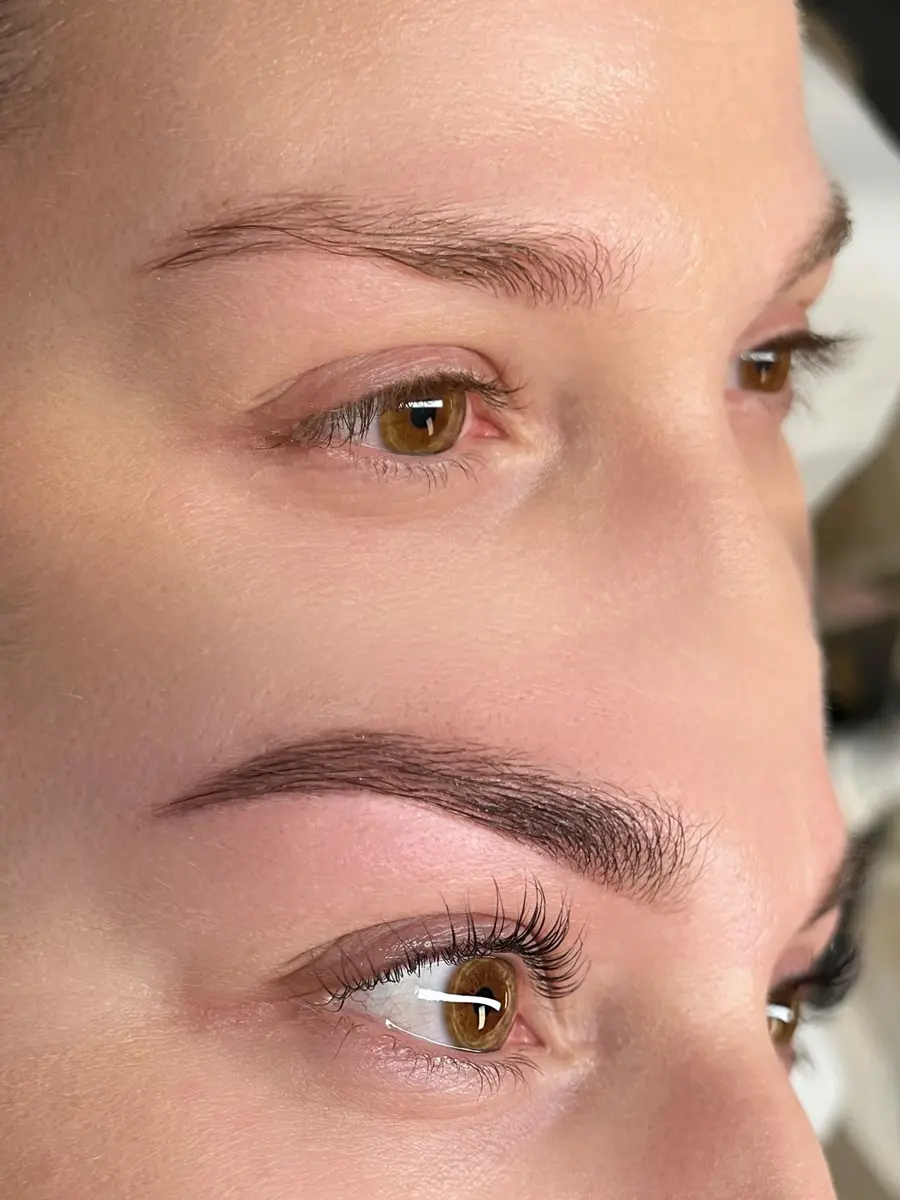
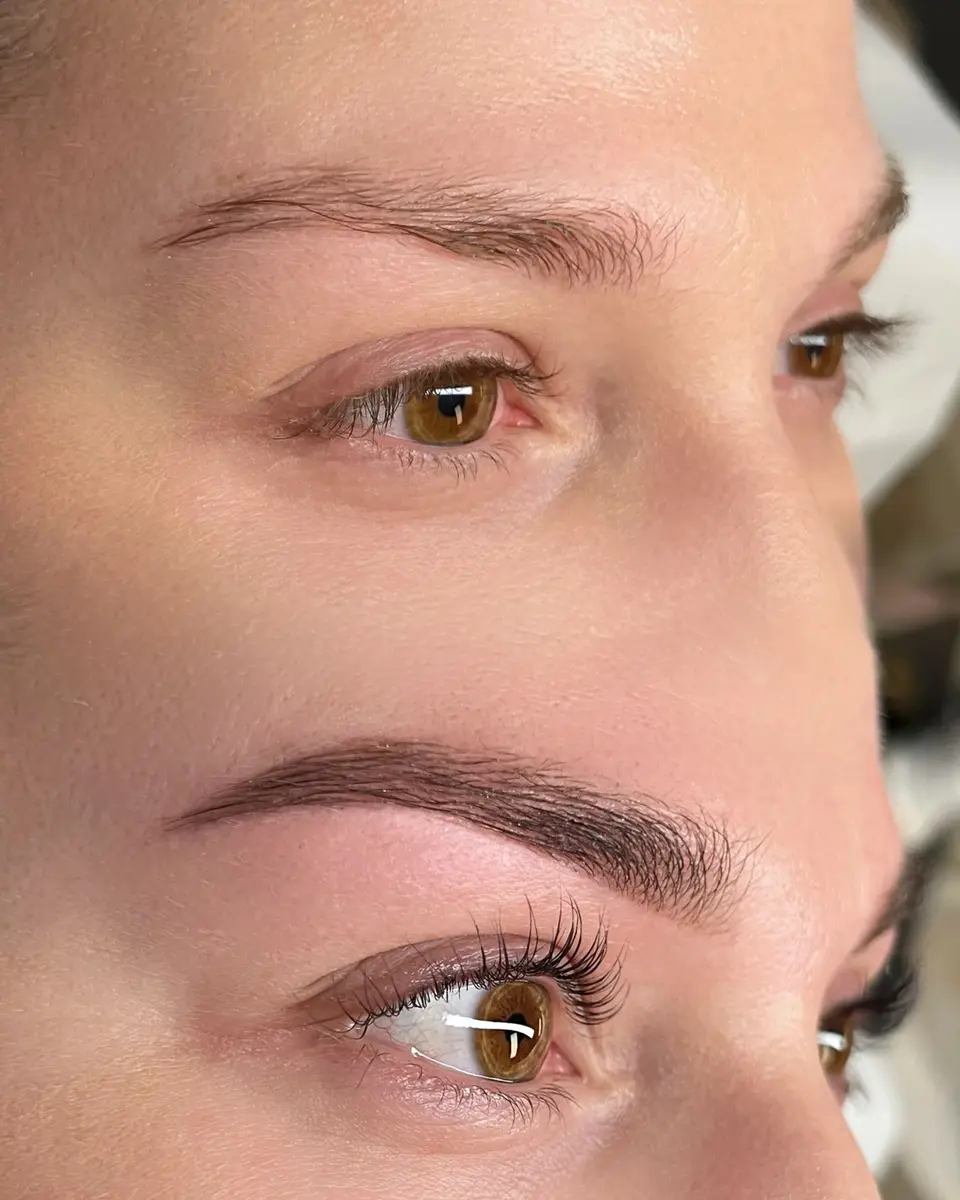
Lash Lift: Galeriebilder im 4:5-Format, weniger beschnitten
Claude-Session: https://claude.ai/code/session_01Psd1c15DkTXSssEPuBD7wk

diff --git a/perfect-line/lash-lift.html b/perfect-line/lash-lift.html
@@ -214,11 +214,11 @@
         <span class="flex-1 flex items-center">Nachher</span>
       </div>
       <div class="flex-1 min-w-0 flex gap-[3px] overflow-x-auto overflow-y-hidden overscroll-x-contain snap-x snap-mandatory md:grid md:grid-cols-5 md:overflow-visible">
-      <figure class="reveal snap-start shrink-0 w-[78%] md:w-auto relative aspect-[3/4] overflow-hidden"><img src="../assets/images/lash-lift-vorher-nachher-5-sarstedt.webp" alt="Lash Lift: Wimpern vorher und nachher" class="w-full h-full object-cover" loading="lazy" width="900" height="1200"></figure>
-      <figure class="reveal snap-start shrink-0 w-[78%] md:w-auto relative aspect-[3/4] overflow-hidden"><img src="../assets/images/lash-lift-vorher-nachher-1-sarstedt.webp" alt="Lash Lift: Wimpern vorher und nachher" class="w-full h-full object-cover" loading="lazy" width="900" height="1200"></figure>
-      <figure class="reveal snap-start shrink-0 w-[78%] md:w-auto relative aspect-[3/4] overflow-hidden"><img src="../assets/images/lash-lift-vorher-nachher-2-sarstedt.webp" alt="Lash Lift: Wimpern vorher und nachher" class="w-full h-full object-cover" loading="lazy" width="900" height="1200"></figure>
-      <figure class="reveal snap-start shrink-0 w-[78%] md:w-auto relative aspect-[3/4] overflow-hidden"><img src="../assets/images/lash-lift-vorher-nachher-3-sarstedt.webp" alt="Lash Lift: Wimpern vorher und nachher" class="w-full h-full object-cover" loading="lazy" width="900" height="1200"></figure>
-      <figure class="reveal snap-start shrink-0 w-[78%] md:w-auto relative aspect-[3/4] overflow-hidden"><img src="../assets/images/lash-lift-vorher-nachher-4-sarstedt.webp" alt="Lash Lift: Wimpern vorher und nachher" class="w-full h-full object-cover" loading="lazy" width="900" height="1200"></figure>
+      <figure class="reveal snap-start shrink-0 w-[78%] md:w-auto relative aspect-[4/5] overflow-hidden"><img src="../assets/images/lash-lift-vorher-nachher-5-sarstedt.webp" alt="Lash Lift: Wimpern vorher und nachher" class="w-full h-full object-cover" loading="lazy" width="960" height="1200"></figure>
+      <figure class="reveal snap-start shrink-0 w-[78%] md:w-auto relative aspect-[4/5] overflow-hidden"><img src="../assets/images/lash-lift-vorher-nachher-1-sarstedt.webp" alt="Lash Lift: Wimpern vorher und nachher" class="w-full h-full object-cover" loading="lazy" width="960" height="1200"></figure>
+      <figure class="reveal snap-start shrink-0 w-[78%] md:w-auto relative aspect-[4/5] overflow-hidden"><img src="../assets/images/lash-lift-vorher-nachher-2-sarstedt.webp" alt="Lash Lift: Wimpern vorher und nachher" class="w-full h-full object-cover" loading="lazy" width="960" height="1200"></figure>
+      <figure class="reveal snap-start shrink-0 w-[78%] md:w-auto relative aspect-[4/5] overflow-hidden"><img src="../assets/images/lash-lift-vorher-nachher-3-sarstedt.webp" alt="Lash Lift: Wimpern vorher und nachher" class="w-full h-full object-cover" loading="lazy" width="960" height="1200"></figure>
+      <figure class="reveal snap-start shrink-0 w-[78%] md:w-auto relative aspect-[4/5] overflow-hidden"><img src="../assets/images/lash-lift-vorher-nachher-4-sarstedt.webp" alt="Lash Lift: Wimpern vorher und nachher" class="w-full h-full object-cover" loading="lazy" width="960" height="1200"></figure>
       </div>
     </div>
   </section>
